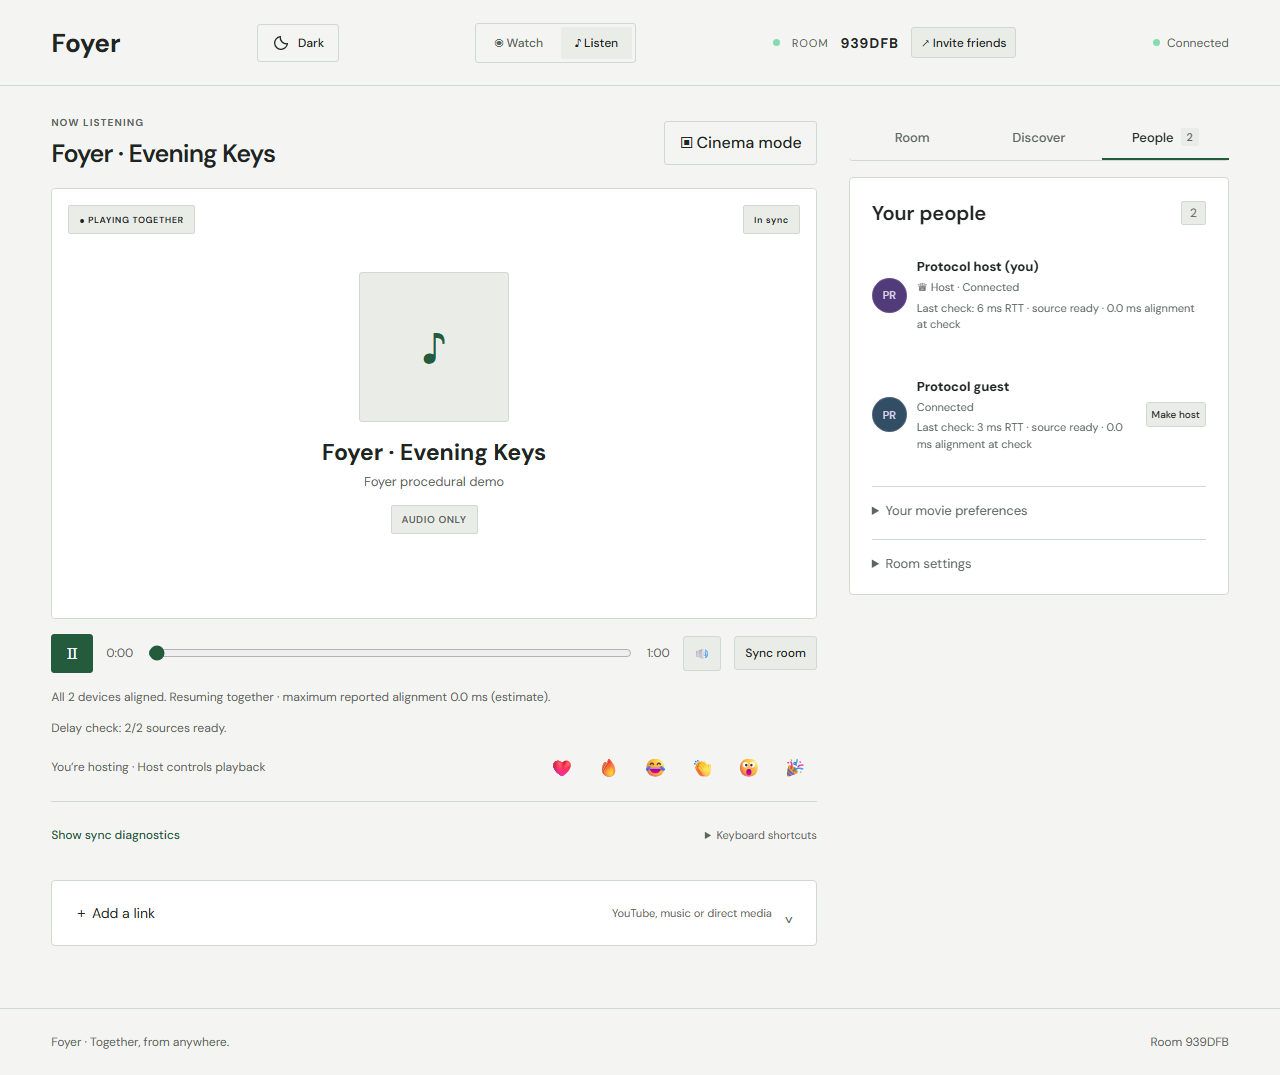
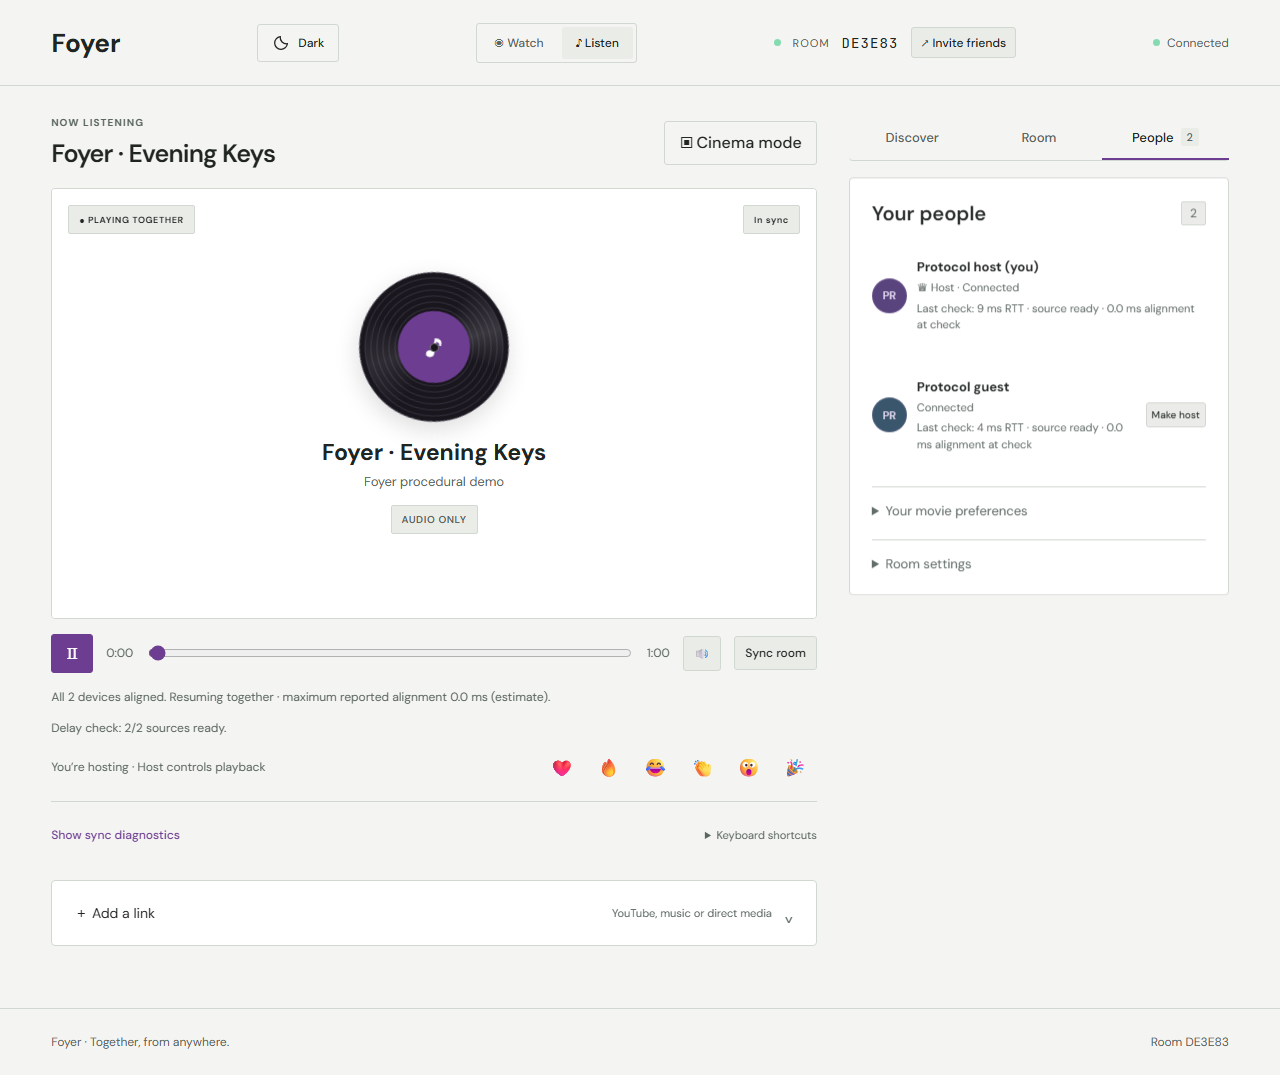
Default to Discover and fix compact queue removal layout

diff --git a/tests/browser/sidebar-default.spec.ts b/tests/browser/sidebar-default.spec.ts
@@ -1,0 +1,9 @@
+import { test, expect } from "@playwright/test";
+test("Discover opens first and queue remove stays a functional square on phones", async ({page})=>{
+ await page.goto("/");await page.getByLabel("Display name").fill("Discover host");await page.getByRole("button",{name:"＋ Create a room"}).click();
+ await expect(page.locator(".video-message")).toHaveCount(0);
+ const nav=page.getByRole("navigation",{name:"Room tools"});await expect(nav.locator("button")).toHaveText(["Discover","Room","People1"]);await expect(nav.getByRole("button",{name:"Discover",exact:true})).toHaveAttribute("aria-pressed","true");
+ await page.locator(".movie").filter({hasText:"Cinema Color Journey"}).getByRole("button",{name:"＋ Queue"}).click();await nav.getByRole("button",{name:"Room",exact:true}).click();await page.getByRole("button",{name:"Queue 1",exact:true}).click();
+ const remove=page.getByRole("button",{name:"Remove Cinema Color Journey"});for(const width of [920,320]){await page.setViewportSize({width,height:844});await expect(remove).toBeVisible();const r=await remove.boundingBox();expect(r!.width).toBe(44);expect(r!.height).toBe(44);expect(await page.evaluate(()=>document.documentElement.scrollWidth<=innerWidth)).toBe(true);}
+ await page.screenshot({path:"evidence/compact-queue-remove.png",fullPage:true});await remove.click();await expect(remove).toHaveCount(0);await expect(page.getByRole("button",{name:"Queue",exact:true})).toBeVisible();
+});

diff --git a/src/main.tsx b/src/main.tsx
@@ -88,7 +88,7 @@ function App() {
     [self, setSelf] = useState(""),
     [tab, setTab] = useState("Chat"),
     [sidebarView, setSidebarView] = useState<"Room" | "Discover" | "People">(
-      "Room",
+      "Discover",
     ),
     [query, setQuery] = useState(""),
     [filter, setFilter] = useState("All"),
@@ -828,7 +828,7 @@ function App() {
     setLastCheck(null);
     setVideoError("Loading source…");
     setBlocked(false);
-    if (room.media.kind === "external") {
+    if (room.media.kind === "external" || room.media.kind === "empty") {
       setVideoError("");
       return;
     }
@@ -1546,7 +1546,7 @@ function App() {
         {!cinema && (
           <aside className="sidebar">
             <nav className="sidebar-nav" aria-label="Room tools">
-              {(["Room", "Discover", "People"] as const).map((view) => (
+              {(["Discover", "Room", "People"] as const).map((view) => (
                 <button
                   key={view}
                   aria-pressed={sidebarView === view}
@@ -1913,6 +1913,7 @@ function App() {
                       {host && (
                         <button
                           disabled={status !== "Connected"}
+                          className="queue-remove"
                           aria-label={`Remove ${q.movie.title}`}
                           onClick={() =>
                             command({ type: "remove", itemId: q.id })

diff --git a/tests/browser/mobile.spec.ts b/tests/browser/mobile.spec.ts
@@ -47,6 +47,7 @@ test("phone layouts fit at 320–430px and landscape while songs, sync and chat 
       .getByRole("button", { name: code ? "Join room →" : "＋ Create a room" })
       .click();
     if (!code) await loadDemo(page);
+    await page.getByRole("button", {name:"Room",exact:true}).click();
     await expect(
       page.getByRole("heading", { name: "Cinema Color Journey", level: 1 }),
     ).toBeVisible();

diff --git a/src/design.css b/src/design.css
@@ -1017,3 +1017,7 @@ details,
     height: 220px;
   }
 }
+
+.queue-item { grid-template-columns: minmax(0, 1fr) auto 44px; align-items: center; }
+.queue-item:not(:has(.queue-remove)) { grid-template-columns: minmax(0, 1fr) auto; }
+.queue-item .queue-remove { width: 44px; height: 44px; min-width: 44px; padding: 0; display: grid; place-items: center; font-size: 22px; line-height: 1; justify-self: end; }

diff --git a/tests/browser/workflows.spec.ts b/tests/browser/workflows.spec.ts
@@ -12,6 +12,7 @@ async function enter(page: Page, name: string, code?: string) {
     .getByRole("button", { name: code ? "Join room →" : "＋ Create a room" })
     .click();
   if (!code) await loadDemo(page);
+    await page.getByRole("button", {name:"Room",exact:true}).click();
   await expect(
     page.getByRole("heading", { name: "Cinema Color Journey", level: 1 }),
   ).toBeVisible();

diff --git a/tests/browser/protocol.spec.ts b/tests/browser/protocol.spec.ts
@@ -9,6 +9,7 @@ const enter = async (page: Page, name: string, code?: string) => {
   await expect(button).toBeEnabled();
   await button.click();
   if (!code) await loadDemo(page);
+    await page.getByRole("button", {name:"Room",exact:true}).click();
   await expect(page.locator("video")).toBeVisible();
   return new URL(page.url()).searchParams.get("room")!;
 };

diff --git a/PROGRESS.md b/PROGRESS.md
@@ -187,3 +187,8 @@ Scope: browser/phone emulation can reproduce Foyer-induced repeated seeks and fa
 ## YouTube Listen artwork layout
 - User clarified YouTube Music needs the disc too. Add primary rotating thumbnail disc beside an intact visible official player in Listen mode. Watch layout preserved; phone stacks both. Provider rotation follows actual adapter paused/readiness. Official minimum visible size200x200 documented at https://developers.google.com/youtube/player_parameters. Build and provider regression next.
 - YouTube Listen runtime07ce679 deployed as dpl_85VpWzmh9q4yUDArJzgrBJHXs55d. Build and7 targeted browser checks pass (controlled SDK playback fixtures). Live Ek Tarfa search selected a song: real thumbnail loaded inside the circle, separate official iframe visible >=200x200, screenshot inspected. This live smoke validates layout/artwork, not a new timing/availability benchmark.
+
+## Discover-first tabs and compact remove control
+- Default sidebar Discover and order Discover/Room/People. Queue remove uses44x44 square alongside votes, with title spanning the row. Existing workflow fixtures explicitly select Room for chat checks. YouTube player removal not implemented: official policy prohibits hidden/background playback and separating audio; source https://developers.google.com/youtube/terms/developer-policies. Disc-only remains available for native audio. Build/browser check next.
+
+- Discover/default/remove and protocol checks passed. Workflow run lost the local service (connection refused); restarted via foreground npm start and all3 workflow checks pass. Visual inspection also found empty Watch mistakenly showing source-loading recovery controls; source effect now treats empty as no-source and regression covers this.

diff --git a/REQUIREMENTS.md b/REQUIREMENTS.md
@@ -112,3 +112,5 @@ Purple theme hierarchy, light-mode poster illustration, real request-driven roll
 Native listening-player artwork: circular vinyl with thumbnail center spins on actual HTML5 playing events, pauses during buffering/paused/ended/error, and respects reduced motion. Verified in tests/browser/listening-disc.spec.ts with actual AAC playback and injected thumbnail metadata. Provider-owned iframe UI remains provider-controlled.
 
 YouTube/Vimeo in Listen mode: rotating thumbnail-center vinyl alongside the intact official player; Watch remains full video. Embedded players stay visible and at least200x200; mobile stacks the panels. Rotation follows actual SDK readiness and pause state. Enhanced two-client music search fixture in tests/browser/youtube.spec.ts checks artwork, play/pause rotation, player bounds and phone overflow. SDK fixtures verify Foyer integration rather than live provider availability.
+
+Discover-first navigation and compact44x44 queue removal are verified at920px/320px with real queue add/remove commands in tests/browser/sidebar-default.spec.ts. Empty-source recovery controls are absent. Existing multi-client workflows and device-start protocol checks pass after explicitly choosing Room for chat.

diff --git a/README.md b/README.md
@@ -167,3 +167,5 @@ Final empty-Watch verification: 60 unit/integration checks and 16 local browser 
 The purple theme pairs a stronger Create action with a softer Join action and illustrated light-mode artwork. A rolling record marks actual connection/join/lazy-load requests without artificial delays. Room-tool transitions preserve playback; reduced-motion preferences disable these animations.
 
 YouTube songs in Listen mode show a vinyl with the song thumbnail in its center, alongside the visible official player and controls. On narrow screens they stack. YouTube remains an official embed; the application does not extract audio or conceal provider video.
+
+Rooms open on Discover by default; navigation order is Discover, Room, People. Queue removal uses a compact44px square next to voting controls. Empty Watch rooms show no loading/recovery prompt until a source is selected.
